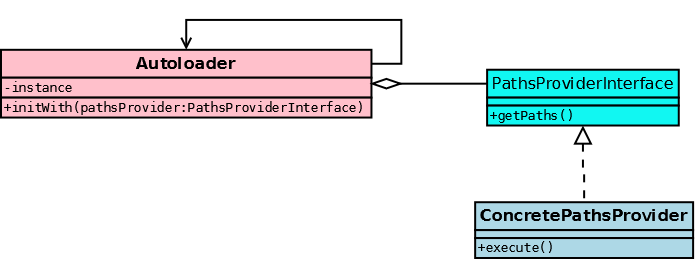
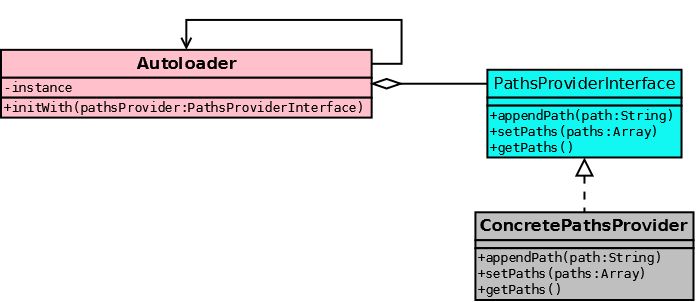
first refactoring

Changed region(s): [[0.0, 0.0618, 1.0, 1.0]]

diff --git a/autoloader/ConcretePathsProvider.php b/autoloader/ConcretePathsProvider.php
@@ -9,13 +9,24 @@ require_once "PathsProviderInterface.php";
 
 class ConcretePathsProvider implements PathsProviderInterface
 {
+	public function __construct()
+	{
+		$this->paths = array();
+	}
+
+	public function appendPath( String $path )
+	{
+		array_push($this->paths, $path);
+	}
+
+	public function setPaths( Array $paths )
+	{
+		$this->paths = $paths;
+	}
+
     public function getPaths()
     {
-        return array
-        (
-            'TestClassesFolder01/',
-            'TestClassesFolder02/'
-        );
+        return $this->paths;
     }
 }
 ?>

diff --git a/autoloader/TestAutoloader.php b/autoloader/TestAutoloader.php
@@ -7,7 +7,12 @@
 include_once('Autoloader.php');
 include_once('ConcretePathsProvider.php');
 
-$loader = Autoloader::initWith( new ConcretePathsProvider );
+
+$pathsProvider = new ConcretePathsProvider;
+$pathsProvider->appendPath('TestClassesFolder01/');
+$pathsProvider->appendPath('TestClassesFolder02/');
+
+$loader = Autoloader::initWith( $pathsProvider );
 
 new TestClass01;
 

diff --git a/autoloader/PathsProviderInterface.php b/autoloader/PathsProviderInterface.php
@@ -8,6 +8,8 @@
 
 interface PathsProviderInterface
 {   
+    public function appendPath( String $path );
+    public function setPaths( Array $paths );
     public function getPaths();
 }
 
